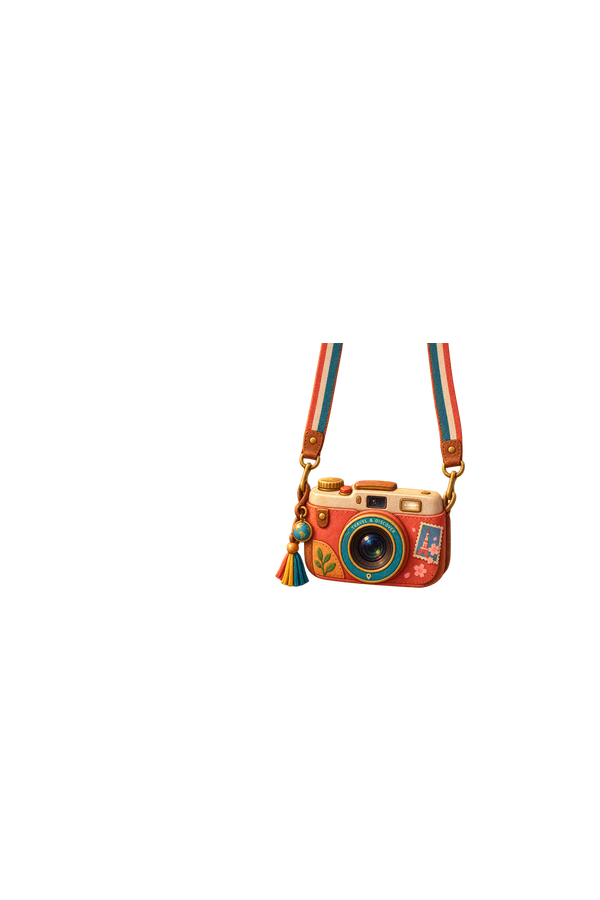
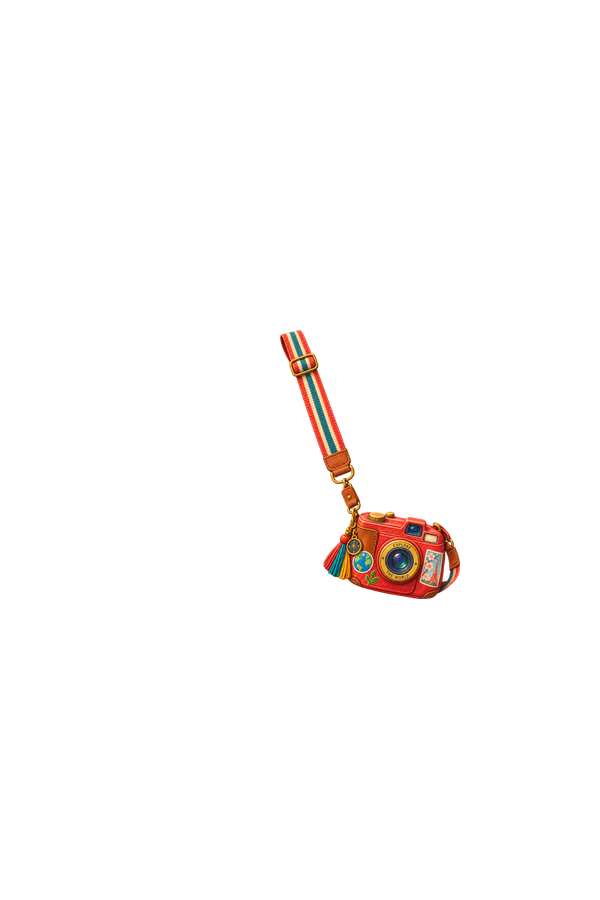
Rescale oversized dresses/caps, fix camera/purse pose, reclassify navy-overalls, remove Curls hairstyle
Shrunk the 3 illustrated dresses from a 400px target height down to
320px (knee-length: shoulder to ~635, not nearly ankle-length) —
297-334px wide before, 226-267px now.

Rescaled puppy-cap and purple-flower-cap from 170-182px tall down to
145px, matching travel-cap's proportions (they were both baseball
caps but ~25-40% taller than the reference cap).

Regenerated mini-camera and pink-quilted-purse: both were drawn as
floating "product shot" illustrations (a full strap loop / a strap
dangling like a necklace with the bag rotated off-angle) instead of
worn-on-the-body like the working crossbody bag. Used crossbody as an
explicit pose reference for the regeneration
(scripts/fix-camera-purse-pose.ts).

navy-overalls is actually a one-piece pinafore dress (its own blouse
baked in), but it lived in the bottoms catalog group with slot:
'bottom' — so it behaved like pants (paired with an arbitrary
separate bottom item) and was normalized into the waist-height box
instead of the shoulder-height one, appearing squished/misaligned.
Moved it into the tops group with slot: 'top' and the 'covers-bottom'
tag (same mechanism as the other dresses), and rescaled/reanchored its
art to start at the shoulder line. The 'includes-top' caption hack
from the previous fix is no longer needed — chosen('tops').name now
resolves correctly on its own.

Removed the 'Curls' hairstyle (id: coils) from the picker entirely per
request. Its underlying assets are left in place (harmless, just
[…]

Changed region(s): [[0.45, 0.3422, 0.78, 0.6844]]

diff --git a/scripts/fix-camera-purse-pose.ts b/scripts/fix-camera-purse-pose.ts
@@ -1,0 +1,59 @@
+// mini-camera and pink-quilted-purse were both generated as floating
+// "product shot" illustrations — a full strap loop like a jewelry display
+// (camera) and a strap dangling almost like a necklace with the bag rotated
+// off-angle (purse) — instead of worn-on-the-body like the working
+// "crossbody" reference (strap crossing one shoulder, bag resting on the
+// opposite hip, front-facing). Reported as looking visually "off" on the
+// doll. This is a pose/content problem, not a crop/scale one, so it needs
+// regeneration rather than a geometric fix — using the correctly-posed
+// crossbody bag as the style/pose reference.
+// Run with: npx tsx scripts/fix-camera-purse-pose.ts
+import path from 'node:path';
+import dotenv from 'dotenv';
+import { generateClosetAsset } from '../server/closet/generateClosetAsset';
+import { buildContactSheet } from '../server/closet/contactSheet';
+import type { ContactSheetCell } from '../server/closet/contactSheet';
+
+dotenv.config({ path: '.env.local' });
+
+const PUBLIC_ROOT = path.resolve(process.cwd(), 'public');
+function urlToLocalPath(url: string): string {
+  return path.join(PUBLIC_ROOT, url.replace(/^\//, ''));
+}
+
+const POSE = 'worn slung across the body on its strap, crossing over one shoulder with the bag itself resting against the opposite hip, front-facing as if worn by a standing child — matching the exact pose, angle, and strap drape of the reference image, not a floating product photo.';
+
+const JOBS = [
+  {
+    itemId: 'mini-camera',
+    itemPrompt: `A small rounded red travel camera with a striped neck strap, a bright lens ring, and travel sticker details, ${POSE}`,
+  },
+  {
+    itemId: 'pink-quilted-purse',
+    itemPrompt: `A small pink quilted crossbody purse with a bow charm and a gold chain strap, ${POSE}`,
+  },
+];
+
+async function main() {
+  const cells: ContactSheetCell[] = [];
+  for (const job of JOBS) {
+    process.stdout.write(`${job.itemId} ... `);
+    const result = await generateClosetAsset({
+      destinationId: 'tokyo',
+      slot: 'accessory',
+      itemId: job.itemId,
+      itemPrompt: job.itemPrompt,
+      referenceAsset: '/little-jetter/catalog/tokyo/crossbody/default.png',
+      quality: 'high',
+      regenerate: true,
+    });
+    console.log(result.qc.ok ? `done -> ${result.asset.url}` : `QC FAILED: ${result.qc.issues.join('; ')}`);
+    if (result.qc.warnings.length > 0) console.log('  warning:', result.qc.warnings.join('; '));
+    cells.push({ label: job.itemId, imagePath: urlToLocalPath(result.asset.url), group: 'accessory' });
+  }
+  cells.push({ label: 'crossbody (reference)', imagePath: path.join(PUBLIC_ROOT, 'little-jetter/catalog/tokyo/crossbody/default.png'), group: 'accessory' });
+  await buildContactSheet(cells, path.resolve(process.cwd(), 'docs', 'qa', 'camera-purse-pose-fix.png'));
+  console.log('contact sheet written');
+}
+
+main().catch((e) => { console.error(e); process.exitCode = 1; });

diff --git a/src/LittleJetterApp.tsx b/src/LittleJetterApp.tsx
@@ -85,7 +85,7 @@ function gameItemStyle(group: PickGroup, id: string): React.CSSProperties {
 
 const characterOptions = {
   style: [{ id: 'girl', label: 'Girl' }, { id: 'boy', label: 'Boy' }],
-  hairStyle: [{ id: 'curls', label: 'Wavy' }, { id: 'coils', label: 'Curls' }, { id: 'bob', label: 'Bob' }, { id: 'short', label: 'Short' }],
+  hairStyle: [{ id: 'curls', label: 'Wavy' }, { id: 'bob', label: 'Bob' }, { id: 'short', label: 'Short' }],
   skin: [{ id: 'porcelain', color: '#f4c9a8' }, { id: 'peach', color: '#dea47f' }, { id: 'golden', color: '#bd7656' }, { id: 'caramel', color: '#9a5f43' }, { id: 'brown', color: '#70432f' }, { id: 'deep', color: '#4b2c24' }],
   hair: [{ id: 'black', color: '#211a19' }, { id: 'brown', color: '#573629' }, { id: 'auburn', color: '#8e4933' }, { id: 'blonde', color: '#d6a850' }, { id: 'red', color: '#b64932' }, { id: 'blue', color: '#397e9c' }],
   eyes: [{ id: 'brown', color: '#5a3827' }, { id: 'hazel', color: '#8d7440' }, { id: 'green', color: '#4e8060' }, { id: 'blue', color: '#4887aa' }, { id: 'gray', color: '#718088' }],
